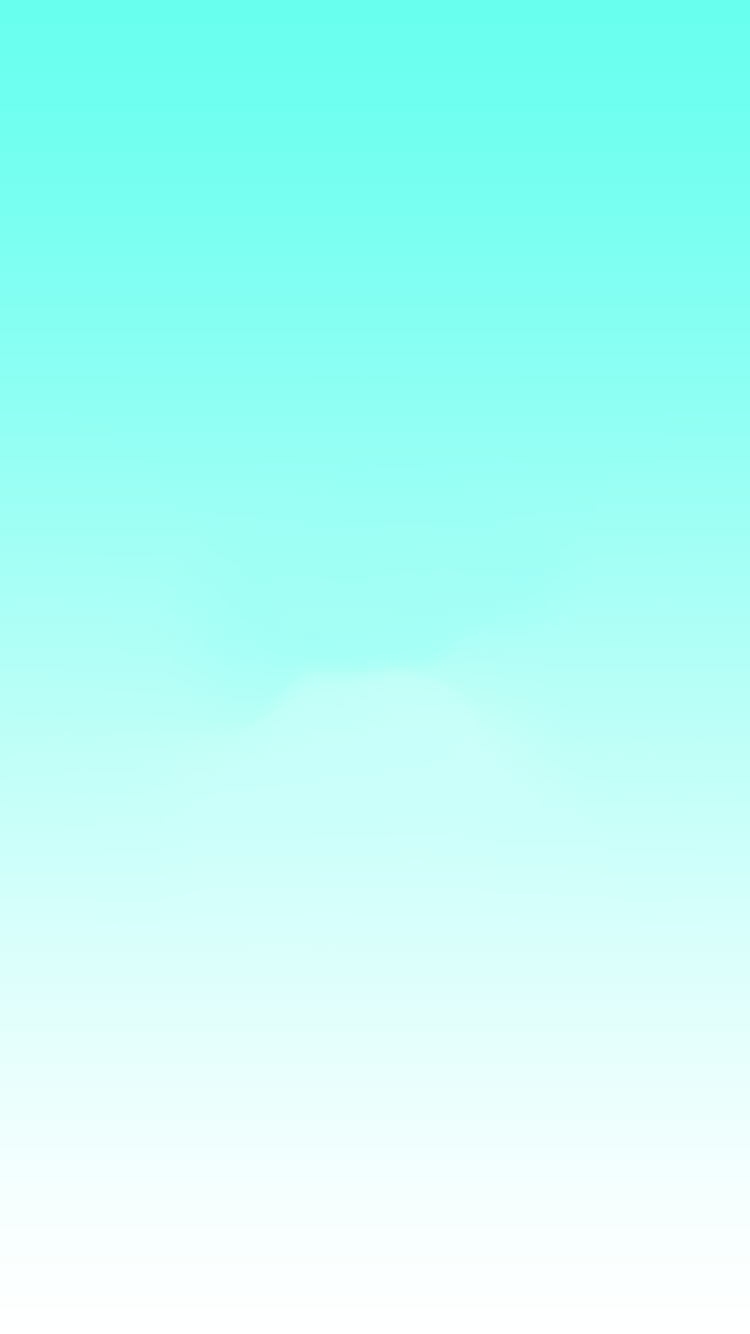
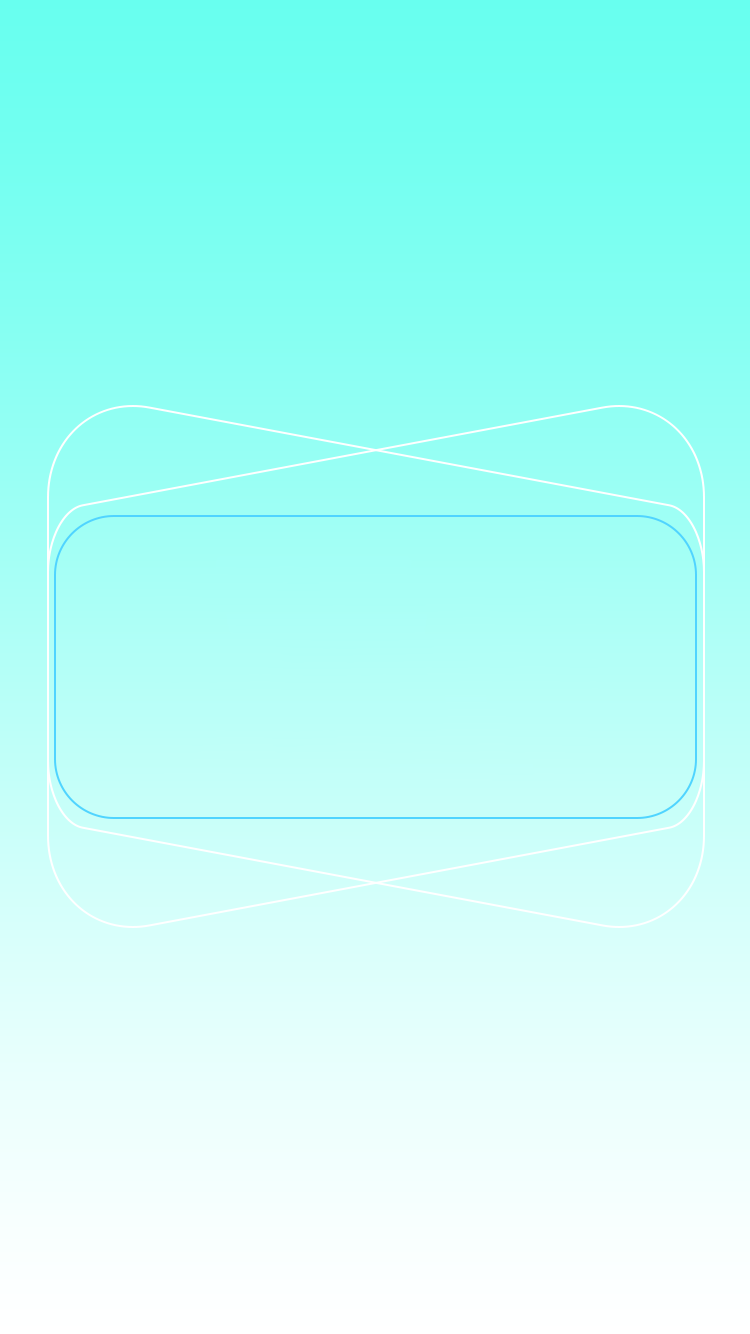
Designed home screen

Changed region(s): [[0.7973, 0.3381, 0.9507, 0.6147], [0.0613, 0.3381, 0.184, 0.6147]]

diff --git a/lib/main.dart b/lib/main.dart
@@ -1,5 +1,4 @@
 import 'dart:async';
-
 import 'package:flutter/cupertino.dart';
 import 'package:flutter/material.dart';
 import 'package:searchbusiness/about.dart';
@@ -102,13 +101,51 @@ class _StartingState extends State<Starting> {
     var screenw = MediaQuery.of(context).size.width;
     return Scaffold(
       body: Container(
+        width: screenw,
+        height: screenh,
         decoration: BoxDecoration(
           image: DecorationImage(
             image: AssetImage("assets/img/homepage.png"),
             fit: BoxFit.cover,
           ),
         ),
-        child: null /* add child content here */,
+        child: Center(
+          child: Column(
+            mainAxisAlignment: MainAxisAlignment.center,
+            children: [
+              Padding(
+                padding: const EdgeInsets.all(8.0),
+                child: MaterialButton(
+                  height: 50,
+                  minWidth: 200,
+                  color: Colors.lightBlue,
+                  shape: RoundedRectangleBorder(
+                      borderRadius: BorderRadius.circular(20)),
+                  onPressed: () {},
+                  child: Text(
+                    "LOGIN",
+                    style: TextStyle(fontSize: 29, color: Colors.white),
+                  ),
+                ),
+              ),
+              Padding(
+                padding: const EdgeInsets.all(8.0),
+                child: MaterialButton(
+                  height: 50,
+                  minWidth: 200,
+                  color: Colors.lightBlue,
+                  shape: RoundedRectangleBorder(
+                      borderRadius: BorderRadius.circular(20)),
+                  onPressed: () {},
+                  child: Text(
+                    "SIGNUP",
+                    style: TextStyle(fontSize: 29, color: Colors.white),
+                  ),
+                ),
+              ),
+            ],
+          ),
+        ),
       ),
     );
   }
